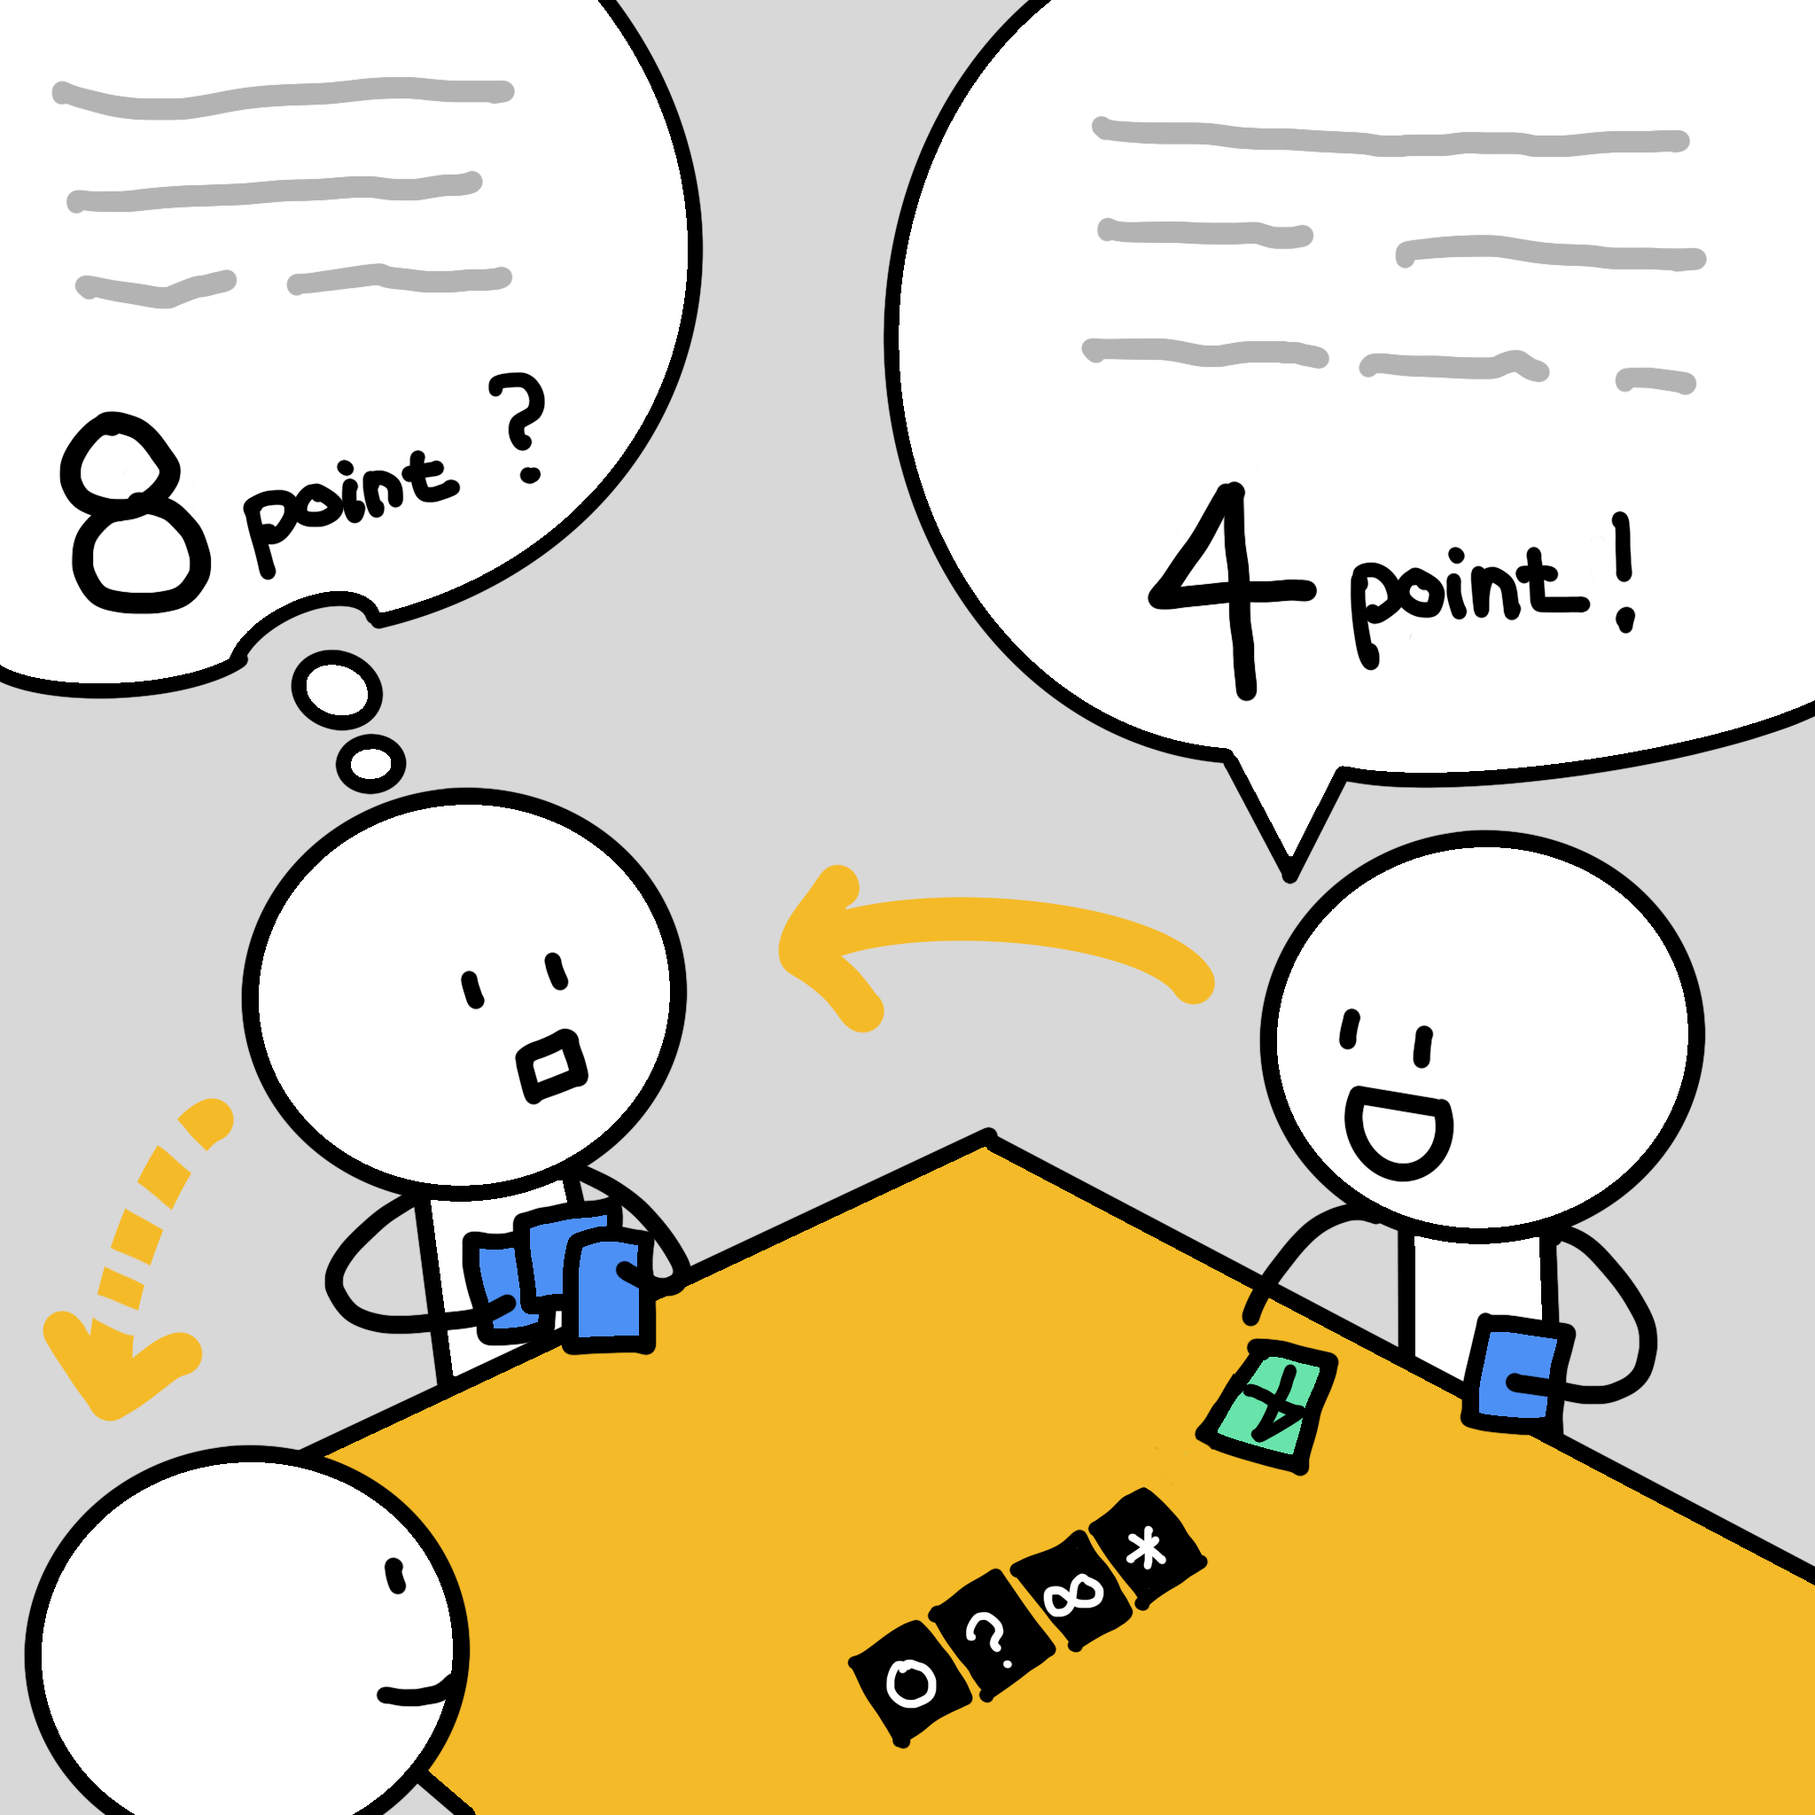
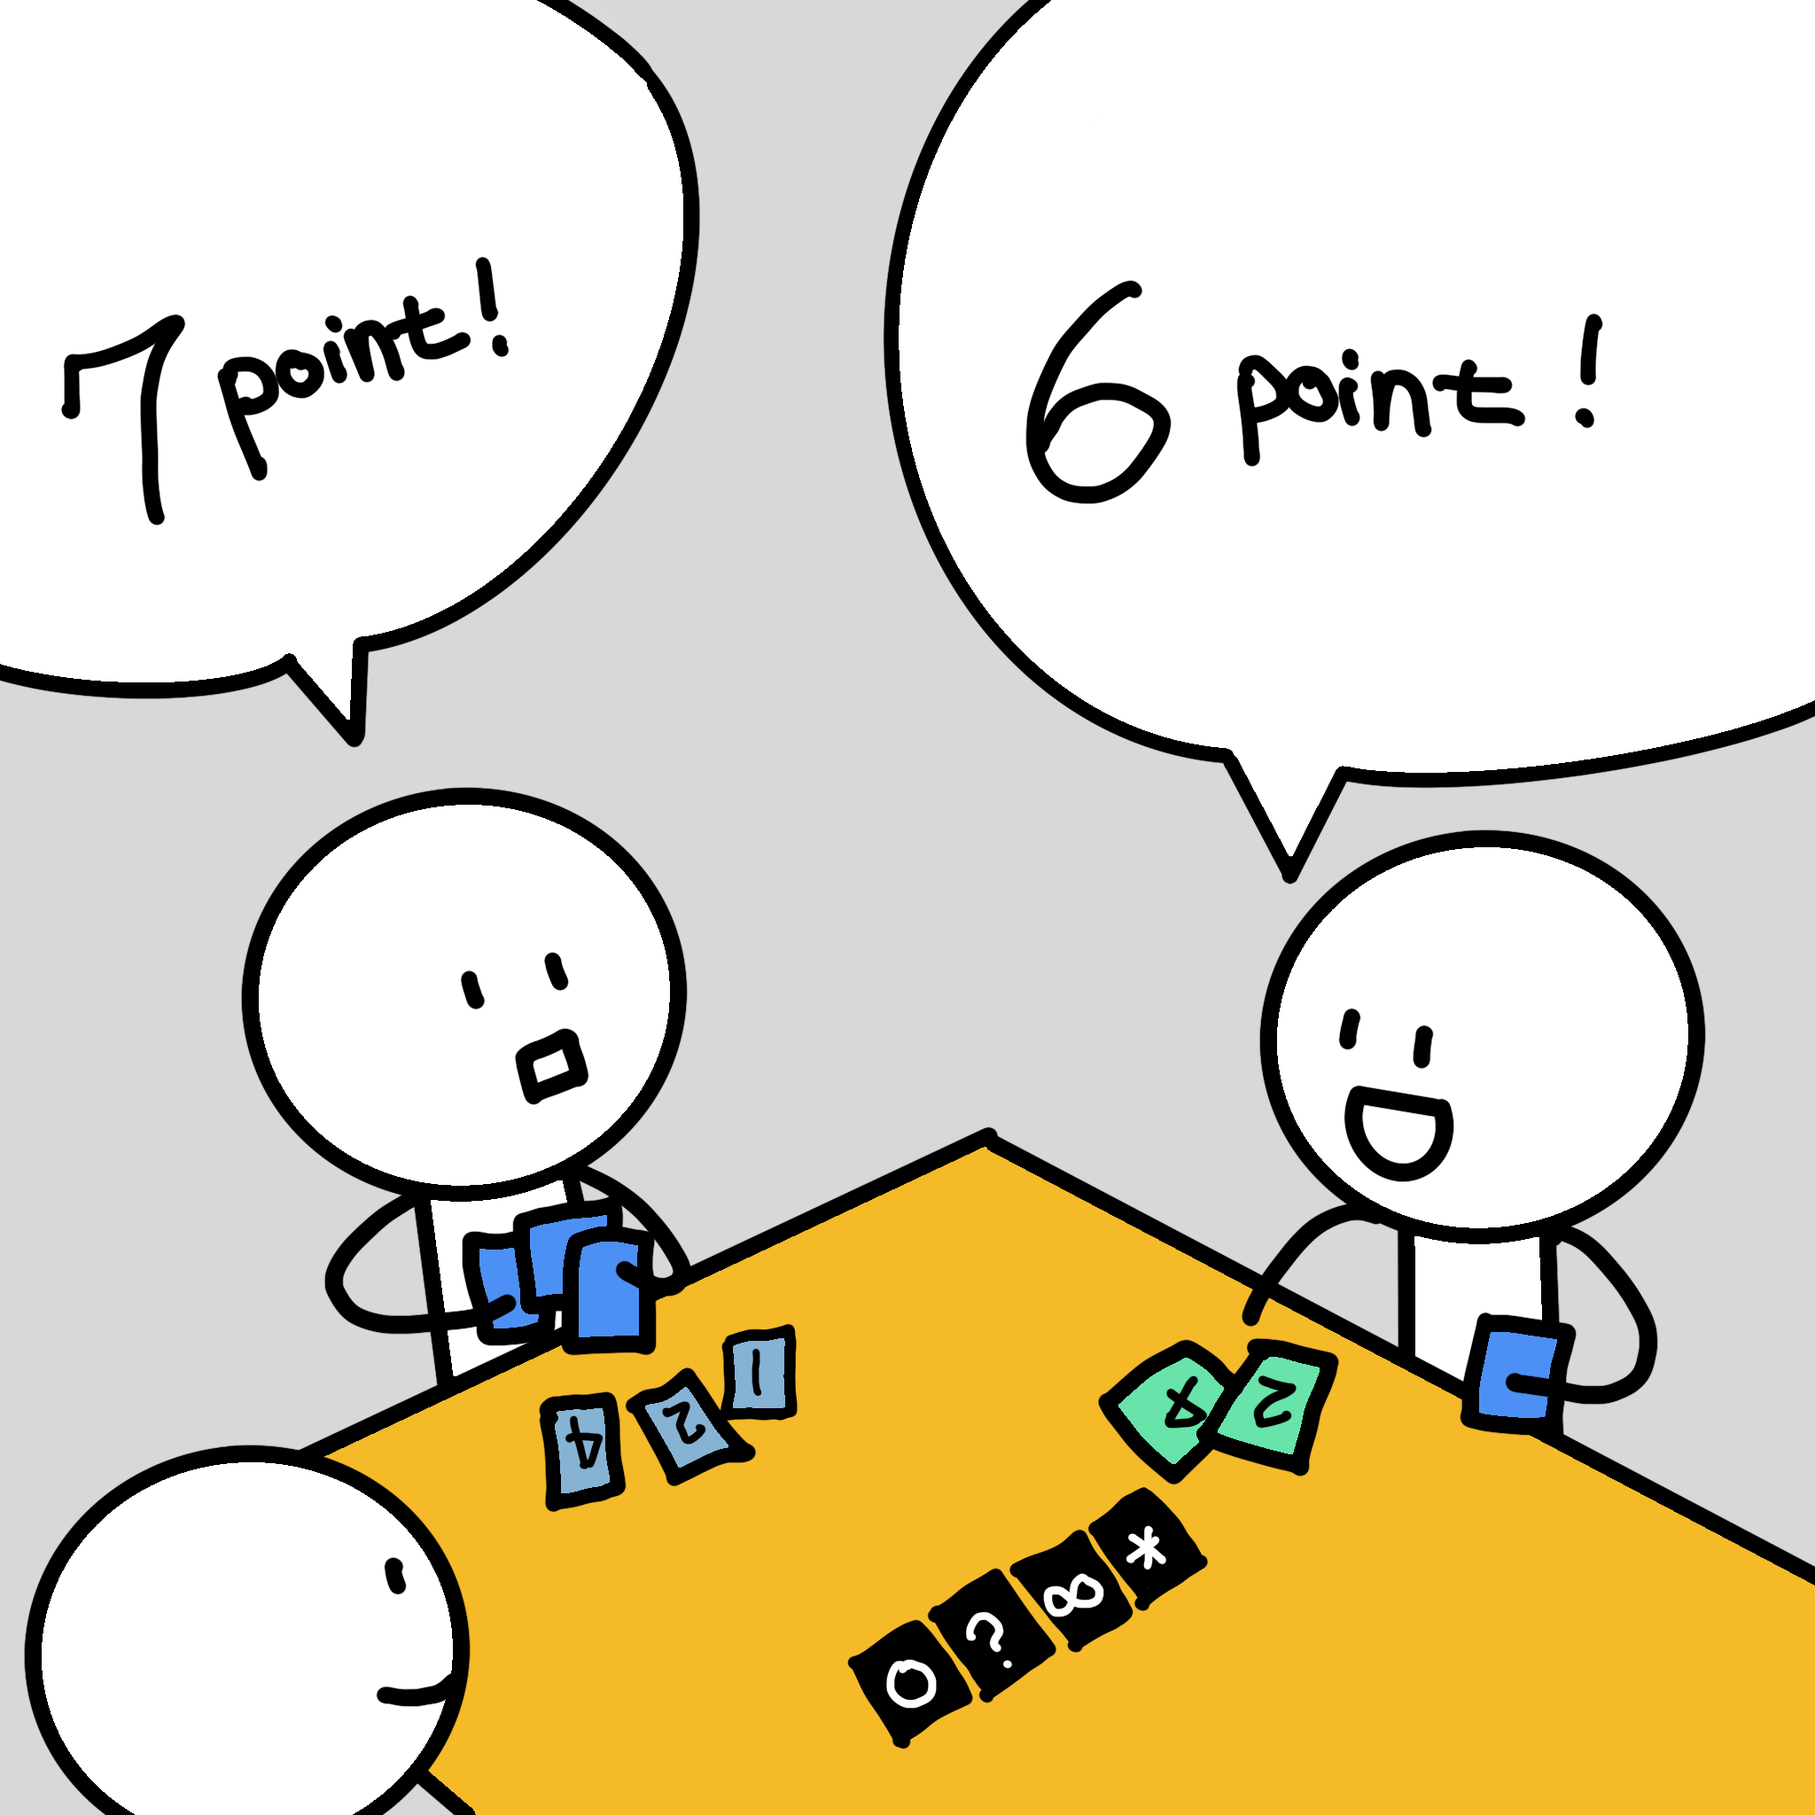
이미지 보완

diff --git a/_pages/user-guide-planning-hwatu.md b/_pages/user-guide-planning-hwatu.md
@@ -241,6 +241,11 @@ sidebar:
 | <img src="{{ site.baseurl }}/assets/images/goods/planning-hwatu/orange-1.png" width="50"><img src="{{ site.baseurl }}/assets/images/goods/planning-hwatu/orange-2.png" width="50"><img src="{{ site.baseurl }}/assets/images/goods/planning-hwatu/orange-4.png" width="50"><img src="{{ site.baseurl }}/assets/images/goods/planning-hwatu/orange-8.png" width="50"> | 15 포인트 |
 | <img src="{{ site.baseurl }}/assets/images/goods/planning-hwatu/orange-0.5.png" width="50"><img src="{{ site.baseurl }}/assets/images/goods/planning-hwatu/orange-1.png" width="50"><img src="{{ site.baseurl }}/assets/images/goods/planning-hwatu/orange-2.png" width="50"><img src="{{ site.baseurl }}/assets/images/goods/planning-hwatu/orange-4.png" width="50"><img src="{{ site.baseurl }}/assets/images/goods/planning-hwatu/orange-8.png" width="50"> | 15.5 포인트 |
 
+<figure>
+<img alt="카드를 2장 이상 사용하기" src="{{ site.baseurl }}/assets/images/user-guide/플래닝_화투로_작업량(포인트)_산정하기_6.png">
+<figcaption>카드를 2장 이상 사용하기</figcaption>
+</figure>
+
 0.5 단위로 정교하게 포인트를 표현할 수 있습니다.
 0.5에서 15.5까지 폭 넓게 포인트를 표현할 수 있습니다.
 
@@ -255,7 +260,10 @@ sidebar:
 앵커 효과는 앞 사람의 행동이 뒷 사람에게 영향을 주는 걸 말합니다.<br/>
 플래닝 포커를 할 때는 앵커 효과를 배제하기 위해 모든 참여자가 동시에 카드를 제시합니다.
 
-![동시에 카드 제시하기]()
+<figure>
+<img alt="카드 제시하기" src="{{ site.baseurl }}/assets/images/user-guide/플래닝_화투로_작업량(포인트)_산정하기_1.png">
+<figcaption>앵커 효과를 배제하기 위해 동시에 카드를 제시하기</figcaption>
+</figure>
 
 플래닝 포커는 동시에 카드를 제출한 후 생각의 차이를 서로 확인하는 걸 중요시 합니다.
 각자의 생각을 공유하고 합의를 유도하는 과정을 반복합니다.
@@ -265,11 +273,22 @@ sidebar:
 앵커 효과로 앞 사람의 의견을 적극적으로 청취하고 보완하거나 강화하면서 이견을 좁힙니다.
 플래닝 화투를 할 때는 앵커 효과를 역이용하기 위해 시계 반대 방향으로 순서대로 카드를 제시합니다.
 
-![차례대로 카드 제시하기]()
+<figure>
+<img alt="카드 제시하기" src="{{ site.baseurl }}/assets/images/user-guide/플래닝_화투로_작업량(포인트)_산정하기_7.png">
+<figcaption>앵커 효과를 역이용하기 위해 차례대로 1장의 카드로 추정하기</figcaption>
+</figure>
 
-차례대로 카드를 제시하며 각자의 생각을 공유합니다.
-다음 사람은 앞 사람의 추정에 의견을 더하거나 빼면서 구체화합니다.
-추상적인 작업 내용을 모두가 공감하는 수준까지 구체화하는 과정을 반복합니다.
+차례대로 카드를 제시하며 각자의 생각을 공유합니다. <br/>
+다음 사람은 앞 사람의 추정에 의견을 더하거나 빼면서 구체화합니다.<br/>
+추상적인 작업 내용을 모두가 공감하는 수준까지 구체화하는 과정을 반복합니다.<br/>
+<br/>
+이때도 역시 2장 이상의 카드를 함께 사용할 수 있습니다. 1장만 사용할 때보다 수열 간격이 좁아지므로 더 정밀하게 추정할 수 있습니다.<br/>
+(예: 팀원이 함께 협업한 경험이 많은 경우 유용)
+
+<figure>
+<img alt="카드 제시하기" src="{{ site.baseurl }}/assets/images/user-guide/플래닝_화투로_작업량(포인트)_산정하기_8.png">
+<figcaption>앵커 효과를 역이용하며 여러 장의 카드로 정밀하게 추정하기</figcaption>
+</figure>
 
 <br/><br/>
 
@@ -280,10 +299,10 @@ sidebar:
 ## 스프린크 백로그의 작업량을 날짜나 시간으로 추정하는 방법
 
 추상적인 스토리 포인트보다 구체적인 시간으로 작업량을 표현하고 싶을 수 있습니다.
-그럴 때는 팀원과 상의하여 작업 소요일이나 소요 시간으로 단위를 바꿔보세요.
+그럴 때는 팀원과 상의하여 작업 소요일이나 소요시간으로 단위를 바꿔보세요.
 이때도 역시 여러 장의 카드를 합산해서 쓰면 됩니다.
 
-| 카드 | 의미 (소요일) | 의미 (소요 시간) |
+| 카드 | 의미 (소요일) | 의미 (소요시간) |
 | - | - | - |
 | <img src="{{ site.baseurl }}/assets/images/goods/planning-hwatu/orange-0.5.png" width="50"> | 0.5 일  | 0.5 시간 | 
 | <img src="{{ site.baseurl }}/assets/images/goods/planning-hwatu/orange-1.png" width="50"> | 1 일 | 1 시간 |
@@ -293,13 +312,22 @@ sidebar:
 | <img src="{{ site.baseurl }}/assets/images/goods/planning-hwatu/orange-1.png" width="50"><img src="{{ site.baseurl }}/assets/images/goods/planning-hwatu/orange-2.png" width="50"><img src="{{ site.baseurl }}/assets/images/goods/planning-hwatu/orange-4.png" width="50"><img src="{{ site.baseurl }}/assets/images/goods/planning-hwatu/orange-8.png" width="50"> | 15 일 | 15 시간 |
 | <img src="{{ site.baseurl }}/assets/images/goods/planning-hwatu/orange-0.5.png" width="50"><img src="{{ site.baseurl }}/assets/images/goods/planning-hwatu/orange-1.png" width="50"><img src="{{ site.baseurl }}/assets/images/goods/planning-hwatu/orange-2.png" width="50"><img src="{{ site.baseurl }}/assets/images/goods/planning-hwatu/orange-4.png" width="50"><img src="{{ site.baseurl }}/assets/images/goods/planning-hwatu/orange-8.png" width="50"> | 15.5 일 | 15.5 시간 |
 
+<figure>
+<img alt="소요일 산정하기" src="{{ site.baseurl }}/assets/images/user-guide/플래닝_화투로_작업량(소요일)_산정하기.png">
+<figcaption>최소 반일 간격으로 소요일 산정하기</figcaption>
+</figure>
 날짜로 사용 시 반일에서 3주 반일까지 표현할 수 있습니다.
+
+<figure>
+<img alt="소요시간 산정하기" src="{{ site.baseurl }}/assets/images/user-guide/플래닝_화투로_작업량(소요시간)_산정하기.png">
+<figcaption>최소 30분 간격으로 소요시간 산정하기</figcaption>
+</figure>
 시간으로 사용 시 30분에서 15시간 30분까지 표현할 수 있습니다.
 
 ## 페어 프로그래밍이나 몹 프로그래밍에서 타임 박싱을 하는 방법
 
-스프린트 백로그 항목은 작업을 할당 받은 개발자가 소요 시간을 추정하는 게 보통입니다.
-페어 프로그래밍을 하거나 몹 프로그래밍을 할 때 서로가 생각하는 소요 시간을 제시하며 추정해보세요.
+스프린트 백로그 항목은 작업을 할당 받은 개발자가 소요시간을 추정하는 게 보통입니다.
+페어 프로그래밍을 하거나 몹 프로그래밍을 할 때 서로가 생각하는 소요시간을 제시하며 추정해보세요.
 
 ![페어 프로그래밍]()
 
@@ -308,4 +336,7 @@ sidebar:
 효율적인 사용을 위해 온라인용 플래닝 포커를 추천합니다. 단 재택이나 원격 근무 중에도 아날로그 감성을 만끽하고 싶다면 별도의 웹캠으로 각자의 테이블에 놓인 카드를 비춰보세요. 
 나중에 누군가가 이미지를 인식하는 서비스를 만들어 줄지도 모르니까요!
 
-![온라인 플래닝 화투]()
+<figure>
+<img alt="원격으로 추정하기" src="{{ site.baseurl }}/assets/images/user-guide/플래닝_화투로_원격_추정하기.png">
+<figcaption>재택 근무 중에 원격으로 추정하기</figcaption>
+</figure>

diff --git a/_pages/user-guide-planning-poker.md b/_pages/user-guide-planning-poker.md
@@ -189,7 +189,7 @@ sidebar:
 
 1 각자 생각한 작업량의 크기를 카드로 표현합니다. 이때 모든 참여자가 동시에 제시합니다.
 <figure>
-<img alt="산정하기" src="{{ site.baseurl }}/assets/images/user-guide/플래닝_포커로_작업량(포인트)_산정하기.png">
+<img alt="산정하기" src="{{ site.baseurl }}/assets/images/user-guide/플래닝_포커로_작업량(포인트)_산정하기_1.png">
 <figcaption>작업량이 커질수록 넓은 간격으로 추정</figcaption>
 </figure>
 
@@ -218,7 +218,7 @@ sidebar:
 
 <figure>
 <img alt="가중치주기" src="{{ site.baseurl }}/assets/images/user-guide/플래닝_포커로_작업량(포인트)_산정하기_5.png">
-<figcaption>휴식이 필요하다고 생각하는 경우 (강한 의지)</figcaption>
+<figcaption>휴식이 필요하다고 생각하는 경우</figcaption>
 </figure>
 
 <br/><br/>
@@ -232,7 +232,10 @@ sidebar:
 앵커 효과는 앞 사람의 행동이 뒷 사람에게 영향을 주는 걸 말합니다.<br/>
 플래닝 포커를 할 때는 앵커 효과를 배제하기 위해 모든 참여자가 동시에 카드를 제시합니다.
 
-![동시에 카드 제시하기]()
+<figure>
+<img alt="카드 제시하기" src="{{ site.baseurl }}/assets/images/user-guide/플래닝_포커로_작업량(포인트)_산정하기_1.png">
+<figcaption>앵커 효과를 배제하기 위해 동시에 카드를 제시하기</figcaption>
+</figure>
 
 플래닝 포커는 동시에 카드를 제출한 후 생각의 차이를 서로 확인하는 걸 중요시 합니다.
 각자의 생각을 공유하고 합의를 유도하는 과정을 반복합니다.
@@ -241,4 +244,7 @@ sidebar:
 
 효율적인 사용을 위해 온라인용 플래닝 포커를 추천합니다. 
 
-![온라인 플래닝 포커]()
+<figure>
+<img alt="원격으로 추정하기" src="{{ site.baseurl }}/assets/images/user-guide/플래닝_포커로_원격_추정하기.png">
+<figcaption>재택 근무 중에 원격으로 추정하기</figcaption>
+</figure>

diff --git a/_pages/user-guide-2.md b/_pages/user-guide-2.md
@@ -363,11 +363,11 @@ sidebar:
 ## 스프린크 백로그의 작업량을 날짜나 시간으로 추정할 때
 
 추상적인 스토리 포인트보다 구체적인 시간으로 작업량을 표현하고 싶을 수 있습니다.
-그럴 때는 팀원과 상의하여 작업 소요일이나 소요 시간으로 단위를 바꿔보세요.
+그럴 때는 팀원과 상의하여 작업 소요일이나 소요시간으로 단위를 바꿔보세요.
 이때도 역시 여러 장의 카드를 합산해서 쓰면 됩니다.
 
 
-| 카드 | 의미 (소요일) | 의미 (소요 시간) |
+| 카드 | 의미 (소요일) | 의미 (소요시간) |
 | - | - | - |
 | <img src="{{ site.baseurl }}/assets/images/goods/planning-hwatu/orange-0.5.png" width="50"> | 0.5 일  | 0.5 시간 | 
 | <img src="{{ site.baseurl }}/assets/images/goods/planning-hwatu/orange-1.png" width="50"> | 1 일 | 1 시간 |
@@ -387,11 +387,11 @@ sidebar:
 
 | 항목 | 플래닝 포커 | 플래닝 화투 |
 | - | - | - |
-| 작업량 표현 | 스토리 포인트  | 스토리 포인트, 소요일, 소요 시간 |
+| 작업량 표현 | 스토리 포인트  | 스토리 포인트, 소요일, 소요시간 |
 | 활용 범위 | 프로덕트 백로그 작업량 추정  | 프로덕트 백로그, 스프린트 백로그 작업량 추정 |
 
-스프린트 백로그 항목은 작업을 할당 받은 개발자가 소요 시간을 추정하는 게 보통입니다.
-페어 프로그래밍을 하거나 몹 프로그래밍을 할 때 서로가 생각하는 소요 시간을 제시하며 추정해보세요.
+스프린트 백로그 항목은 작업을 할당 받은 개발자가 소요시간을 추정하는 게 보통입니다.
+페어 프로그래밍을 하거나 몹 프로그래밍을 할 때 서로가 생각하는 소요시간을 제시하며 추정해보세요.
 
 ![페어 프로그래밍]()
 

diff --git a/_pages/user-guide-3.md b/_pages/user-guide-3.md
@@ -363,11 +363,11 @@ sidebar:
 ## 스프린크 백로그의 작업량을 날짜나 시간으로 추정할 때
 
 추상적인 스토리 포인트보다 구체적인 시간으로 작업량을 표현하고 싶을 수 있습니다.
-그럴 때는 팀원과 상의하여 작업 소요일이나 소요 시간으로 단위를 바꿔보세요.
+그럴 때는 팀원과 상의하여 작업 소요일이나 소요시간으로 단위를 바꿔보세요.
 이때도 역시 여러 장의 카드를 합산해서 쓰면 됩니다.
 
 
-| 카드 | 의미 (소요일) | 의미 (소요 시간) |
+| 카드 | 의미 (소요일) | 의미 (소요시간) |
 | - | - | - |
 | <img src="{{ site.baseurl }}/assets/images/goods/planning-hwatu/orange-0.5.png" width="50"> | 0.5 일  | 0.5 시간 | 
 | <img src="{{ site.baseurl }}/assets/images/goods/planning-hwatu/orange-1.png" width="50"> | 1 일 | 1 시간 |
@@ -387,11 +387,11 @@ sidebar:
 
 | 항목 | 플래닝 포커 | 플래닝 화투 |
 | - | - | - |
-| 작업량 표현 | 스토리 포인트  | 스토리 포인트, 소요일, 소요 시간 |
+| 작업량 표현 | 스토리 포인트  | 스토리 포인트, 소요일, 소요시간 |
 | 활용 범위 | 프로덕트 백로그 작업량 추정  | 프로덕트 백로그, 스프린트 백로그 작업량 추정 |
 
-스프린트 백로그 항목은 작업을 할당 받은 개발자가 소요 시간을 추정하는 게 보통입니다.
-페어 프로그래밍을 하거나 몹 프로그래밍을 할 때 서로가 생각하는 소요 시간을 제시하며 추정해보세요.
+스프린트 백로그 항목은 작업을 할당 받은 개발자가 소요시간을 추정하는 게 보통입니다.
+페어 프로그래밍을 하거나 몹 프로그래밍을 할 때 서로가 생각하는 소요시간을 제시하며 추정해보세요.
 
 ![페어 프로그래밍]()
 

diff --git a/_pages/user-guide-poker-vs-hwatu.md b/_pages/user-guide-poker-vs-hwatu.md
@@ -111,7 +111,7 @@ sidebar:
 
 | 항목 | 플래닝 포커 | 플래닝 화투 |
 | - | - | - |
-| 작업량 표현 | 스토리 포인트  | 스토리 포인트, 소요일, 소요 시간 |
+| 작업량 표현 | 스토리 포인트  | 스토리 포인트, 소요일, 소요시간 |
 | 활용 범위 | 프로덕트 백로그 작업량 추정  | 프로덕트 백로그, 스프린트 백로그 작업량 추정 |
 
 ![비교]()
